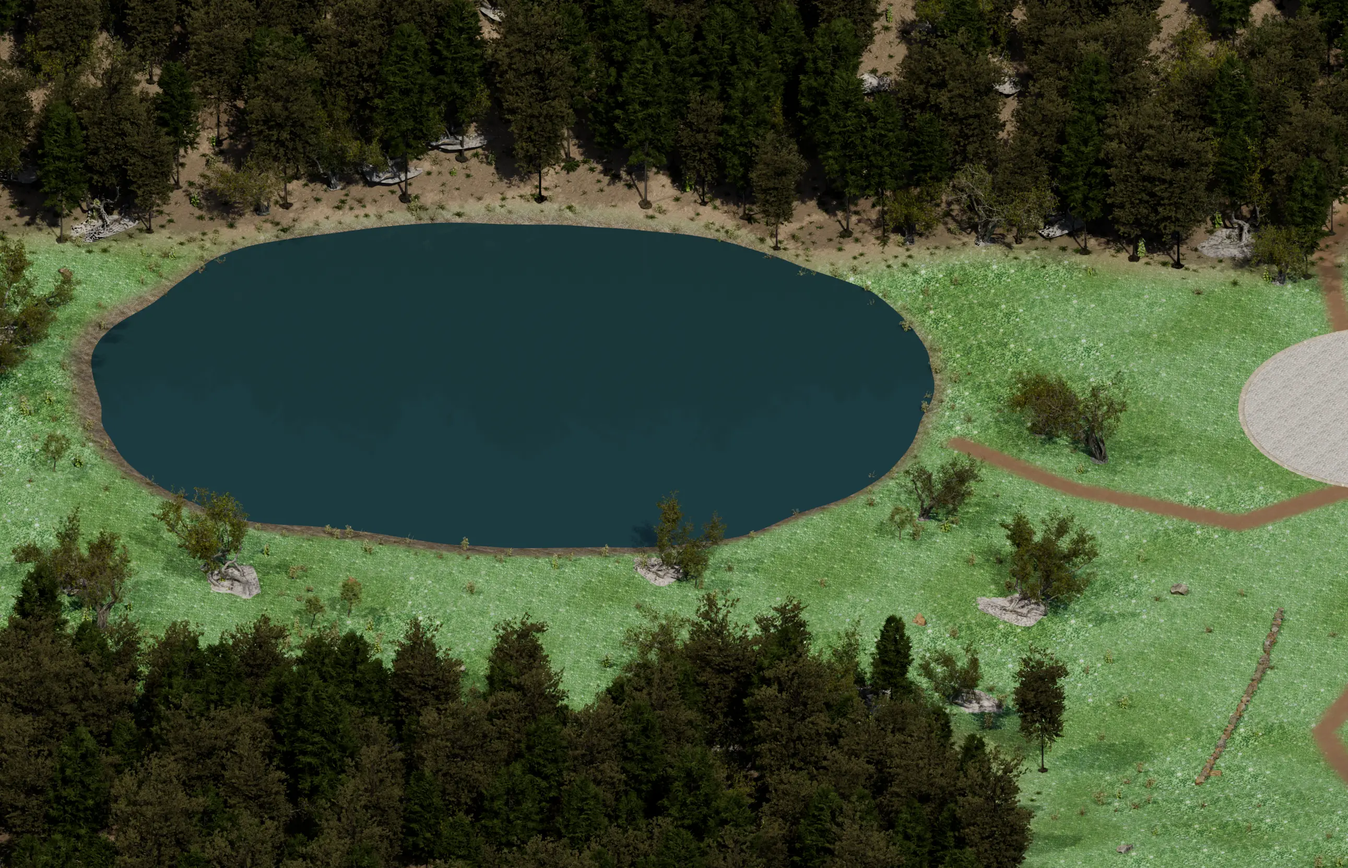
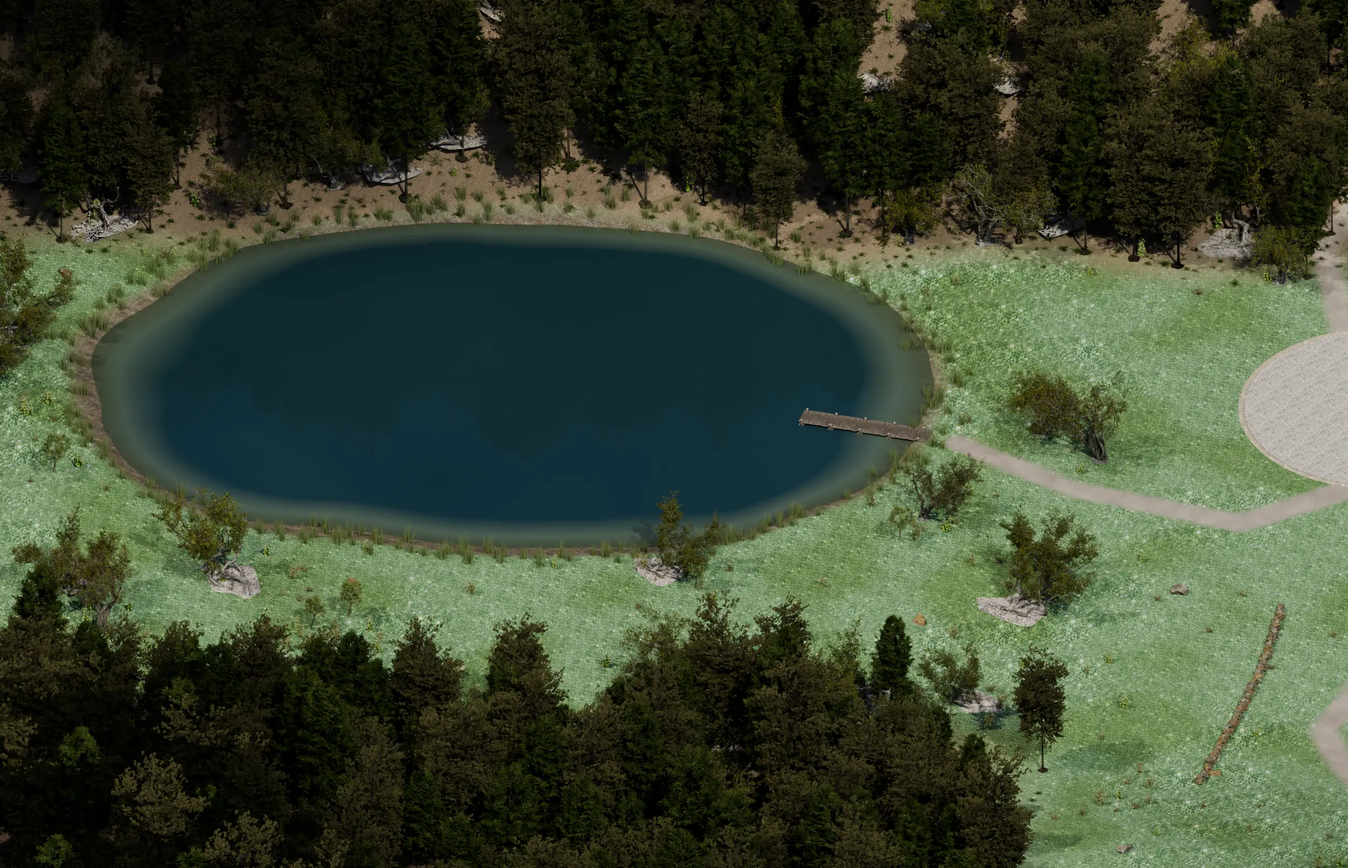
feat: polish the Guild lakeside: shoreline, pier, reeds, walls and clouds
The lake shows depth, clear over the lakebed in the shallows, with reed
clumps and a wooden pier at the end of the gate path. Paths are natural soil
and gravel, the meadow varies by colour rather than repeats, dry-stone walls
have three courses, and cloud shadows drift over the outer landscape. The
Grok keep takes dark slate, and hall windows glow at night but not by day.
Plate rendering no longer deletes the world's surface textures.

diff --git a/web/yard/renderer.js b/web/yard/renderer.js
@@ -231,7 +231,12 @@ export class YardRenderer {
     const light=theme==='light';
     // Plates carry their own daylight; dark theme dims them toward dusk.
     this.plateTint.set(light?0xffffff:0x9aa3b8);
-    this.world?.traverse(node=>{if(node.userData.plate)node.material.color.copy(this.plateTint);});
+    this.world?.traverse(node=>{
+      if(node.userData.plate)node.material.color.copy(this.plateTint);
+      // Lit windows and magic read as glow at night, not as paint by day.
+      else for(const m of (Array.isArray(node.material)?node.material:node.material?[node.material]:[]))
+        if(m.name==='window'||m.name==='magic')m.emissiveIntensity=light?.35:1.4;
+    });
     this.renderer.toneMappingExposure=light?1.65:1.12;
     this.hemi.color.set(skin==='grove'?0xccebd6:skin==='orbital'?0xa7c9ff:0xc4dced);
     this.hemi.intensity=(light?3.2:1.8)*(WORLDS[skin]?.plates?.35:1);

diff --git a/concept-art/guild-yard/env/guild_env.py b/concept-art/guild-yard/env/guild_env.py
@@ -19,7 +19,7 @@ OUT = ROOT / '.cache/yard-env'
 PAINTED = Path(__file__).resolve().parent / 'textures'
 HDRI = 'kloofendal_48d_partly_cloudy_puresky'
 TEXTURES = {
-    'forest': 'forest_ground_04', 'shore': 'brown_mud_rocks_01', 'path': 'forest_ground_06', 'courtyard': 'cobblestone_floor_08', 'kerb': 'castle_wall_slates',
+    'forest': 'forest_ground_04', 'shore': 'brown_mud_rocks_01', 'path': 'forest_ground_06', 'gravel': 'gravel_floor', 'courtyard': 'cobblestone_floor_08', 'kerb': 'castle_wall_slates',
 }
 # Model, target height in metres (None keeps Poly Haven's real size), and
 # whether the .blend holds variants to pick between rather than one model.
@@ -35,7 +35,7 @@ MODELS = {
 SURFACES = {
     'wall': ('castle_wall_varriation', 2.5, ['stone', 'stoneLight'], False),
     'plinth': ('castle_wall_slates', 2.5, ['stoneDark', 'edge'], False),
-    'roof': ('grey_roof_tiles_02', 1.5, ['amber', 'blue', 'emerald', 'violet', 'cyan'], True),
+    'roof': ('grey_roof_tiles_02', 1.5, ['amber', 'blue', 'emerald', 'violet', 'cyan', 'iron'], True),
     'wood': ('dark_wooden_planks', 2, ['wood', 'woodLight'], False),
 }
 COURTYARD_RADIUS = 13.7
@@ -216,6 +216,19 @@ def painted(nodes, links, name, scale, coord):
     pick.inputs['From Min'].default_value, pick.inputs['From Max'].default_value = .42, .58
     links.new(noise(30, 1), pick.inputs['Value'])
     color = mix(nodes, links, 'RGBA', pick.outputs['Result'], sample(scale, 0), sample(scale * 2.3, .9))
+    dry = nodes.new('ShaderNodeMapRange')
+    dry.inputs['From Min'].default_value, dry.inputs['From Max'].default_value = .5, .7
+    dry.inputs['To Max'].default_value = .45
+    links.new(noise(90, 3), dry.inputs['Value'])
+    straw = nodes.new('ShaderNodeMix')
+    straw.data_type, straw.blend_type = 'RGBA', 'MULTIPLY'
+    links.new(dry.outputs['Result'], straw.inputs['Factor'])
+    links.new(color, straw.inputs[6])
+    straw.inputs[7].default_value = (1.1, .95, .55, 1)
+    calm = nodes.new('ShaderNodeHueSaturation')
+    calm.inputs['Saturation'].default_value = .82
+    links.new(straw.outputs[2], calm.inputs['Color'])
+    color = calm.outputs['Color']
     shade = nodes.new('ShaderNodeMapRange')
     shade.inputs['To Min'].default_value, shade.inputs['To Max'].default_value = .62, .92
     links.new(noise(55, 2), shade.inputs['Value'])
@@ -263,6 +276,17 @@ def ground_material():
         attr = nodes.new('ShaderNodeAttribute')
         attr.attribute_name = name
         top = surface(nodes, links, TEXTURES[{'woods': 'forest'}.get(name, name)], scale, coord)
+        if name == 'path':
+            gravel = surface(nodes, links, TEXTURES['gravel'], 1.6, coord)
+            grit = nodes.new('ShaderNodeTexNoise')
+            grit.inputs['Scale'].default_value = .4
+            links.new(coord, grit.inputs['Vector'])
+            top = tuple(mix(nodes, links, kind, grit.outputs['Fac'], a, b)
+                        for kind, a, b in zip(('RGBA', 'FLOAT', 'VECTOR'), top, gravel))
+            dull = nodes.new('ShaderNodeHueSaturation')
+            dull.inputs['Saturation'].default_value, dull.inputs['Value'].default_value = .55, .92
+            links.new(top[0], dull.inputs['Color'])
+            top = (dull.outputs['Color'], top[1], top[2])
         layers = [tuple(mix(nodes, links, kind, attr.outputs['Fac'], low, high)
                         for kind, low, high in zip(('RGBA', 'FLOAT', 'VECTOR'), layers[0], top))]
     color, rough, normal = layers[0]
@@ -284,11 +308,33 @@ def textured(name, asset, scale):
     return m
 
 def water_material():
+    """Dark and reflective where deep; clear over the lakebed in the shallows."""
     import bpy
     m = bpy.data.materials.new('water')
     nodes, links = m.node_tree.nodes, m.node_tree.links
     bsdf = nodes['Principled BSDF']
-    bsdf.inputs['Base Color'].default_value = (.012, .028, .03, 1)
+    depth = nodes.new('ShaderNodeAttribute')
+    depth.attribute_name = 'depth'
+    deep = nodes.new('ShaderNodeMapRange')
+    deep.inputs['From Min'].default_value, deep.inputs['From Max'].default_value = 0, 1.6
+    links.new(depth.outputs['Fac'], deep.inputs['Value'])
+    tint = nodes.new('ShaderNodeMix')
+    tint.data_type = 'RGBA'
+    links.new(deep.outputs['Result'], tint.inputs['Factor'])
+    tint.inputs[6].default_value = (.07, .09, .06, 1)
+    tint.inputs[7].default_value = (.008, .022, .026, 1)
+    links.new(tint.outputs[2], bsdf.inputs['Base Color'])
+    clear = nodes.new('ShaderNodeBsdfTransparent')
+    clear.inputs['Color'].default_value = (.62, .7, .6, 1)
+    shallow = nodes.new('ShaderNodeMapRange')
+    shallow.inputs['From Min'].default_value, shallow.inputs['From Max'].default_value = 0, .7
+    shallow.inputs['To Min'].default_value, shallow.inputs['To Max'].default_value = .7, 0
+    links.new(depth.outputs['Fac'], shallow.inputs['Value'])
+    blend = nodes.new('ShaderNodeMixShader')
+    links.new(shallow.outputs['Result'], blend.inputs['Fac'])
+    links.new(bsdf.outputs['BSDF'], blend.inputs[1])
+    links.new(clear.outputs['BSDF'], blend.inputs[2])
+    links.new(blend.outputs['Shader'], nodes['Material Output'].inputs['Surface'])
     bsdf.inputs['Roughness'].default_value = .02
     bsdf.inputs['IOR'].default_value = 1.33
     ripples = nodes.new('ShaderNodeTexNoise')
@@ -324,13 +370,26 @@ def terrain():
     return obj
 
 def water():
-    import bpy
+    """The lake surface, carrying the depth beneath each point for the shader."""
+    import bpy, bmesh
     ca, cb, ra, rb = LAKE
     x, y = to_ground(ca, cb)
-    bpy.ops.mesh.primitive_plane_add(size=1, location=(x, y, WATER_LEVEL))
-    obj = bpy.context.object
-    obj.scale = (ra * 3, ra * 3, 1)
+    size = max(ra, rb) * 2.6
+    bm = bmesh.new()
+    bmesh.ops.create_grid(bm, x_segments=int(size), y_segments=int(size), size=size / 2)
+    mesh = bpy.data.meshes.new('water')
+    bm.to_mesh(mesh)
+    bm.free()
+    depths = []
+    for v in mesh.vertices:
+        v.co.x += x
+        v.co.y += y
+        v.co.z = WATER_LEVEL
+        depths.append(max(0, WATER_LEVEL - height(v.co.x, v.co.y)))
+    mesh.attributes.new('depth', 'FLOAT', 'POINT').data.foreach_set('value', depths)
+    obj = bpy.data.objects.new('water', mesh)
     obj.data.materials.append(water_material())
+    bpy.context.scene.collection.objects.link(obj)
 
 def courtyard():
     import bpy
@@ -436,21 +495,121 @@ def walls(rocks):
     sizes = {c: max(max(o.dimensions) for o in c.objects) for c in rocks}
     for line in WALLS:
         for (a0, b0), (a1, b1) in zip(line, line[1:]):
-            steps = int(math.hypot(a1 - a0, b1 - b0) / .42)
+            steps = int(math.hypot(a1 - a0, b1 - b0) / .36)
             for i in range(steps):
                 t = i / steps
                 a, b = a0 + (a1 - a0) * t, b0 + (b1 - b0) * t
                 x, y = to_ground(a + rng.uniform(-.12, .12), b + rng.uniform(-.12, .12))
                 if live_distance(x, y) < 3:
                     continue
-                for layer in range(2):
+                for layer in range(3):
                     c = rng.choice(rocks)
                     inst = bpy.data.objects.new('wall', None)
                     inst.instance_type, inst.instance_collection = 'COLLECTION', c
-                    inst.location = (x, y, height(x, y) + layer * .32 - .08)
+                    inst.location = (x, y, height(x, y) + layer * .3 - .1)
                     inst.rotation_euler = (rng.uniform(-.2, .2), rng.uniform(-.2, .2), rng.uniform(0, math.tau))
-                    inst.scale = (rng.uniform(.65, .95) / sizes[c],) * 3
+                    inst.scale = (rng.uniform(.75, 1.1) * (1 - layer * .15) / sizes[c],) * 3
                     bpy.context.scene.collection.objects.link(inst)
+
+def reeds():
+    """Reed clumps: tapered blades leaning out from a base, in three variants."""
+    import bpy
+    m = bpy.data.materials.new('reed')
+    bsdf = m.node_tree.nodes['Principled BSDF']
+    bsdf.inputs['Base Color'].default_value = (.12, .15, .05, 1)
+    bsdf.inputs['Roughness'].default_value = .55
+    bsdf.inputs['Subsurface Weight'].default_value = .15
+    variants = []
+    for k in range(3):
+        rng = random.Random(300 + k)
+        verts, faces = [], []
+        for _ in range(55):
+            r, a = rng.uniform(0, .45), rng.uniform(0, math.tau)
+            bx, by = r * math.cos(a), r * math.sin(a)
+            tall, lean, width = rng.uniform(.9, 1.9), rng.uniform(.05, .35), rng.uniform(.018, .03)
+            facing = rng.uniform(0, math.tau)
+            fx, fy = math.cos(facing) * width, math.sin(facing) * width
+            start = len(verts)
+            for j in range(4):
+                t = j / 3
+                w = 1 - t * .9
+                cx, cy = bx + math.cos(a) * lean * t * t, by + math.sin(a) * lean * t * t
+                verts += [(cx - fx * w, cy - fy * w, tall * t), (cx + fx * w, cy + fy * w, tall * t)]
+            faces += [(start + 2 * j, start + 2 * j + 1, start + 2 * j + 3, start + 2 * j + 2) for j in range(3)]
+        mesh = bpy.data.meshes.new(f'reeds_{k}')
+        mesh.from_pydata(verts, [], faces)
+        mesh.materials.append(m)
+        obj = bpy.data.objects.new(f'reeds_{k}', mesh)
+        c = bpy.data.collections.new(f'reeds_{k}')
+        c.objects.link(obj)
+        variants.append(c)
+    return variants
+
+PIER = ((-42, -6), (-56, -2))   # shore end and lake end, screen frame
+
+def pier():
+    """A wooden pier from the gate path's end out over the lake."""
+    import bpy
+    path = polyhaven.model('modular_wooden_pier')
+    with bpy.data.libraries.load(str(path)) as (src, dst):
+        dst.objects = [n for n in src.objects if n.endswith('section_02')]
+    section = dst.objects[0]
+    deck = max(c[2] for c in section.bound_box)
+    (a0, b0), (a1, b1) = PIER
+    (x0, y0), (x1, y1) = to_ground(a0, b0), to_ground(a1, b1)
+    length, step = math.hypot(x1 - x0, y1 - y0), 2.9
+    heading = math.atan2(y1 - y0, x1 - x0) - math.pi / 2
+    for i in range(int(length / step) + 1):
+        t = i * step / length
+        obj = section.copy()
+        obj.location = (x0 + (x1 - x0) * t, y0 + (y1 - y0) * t, WATER_LEVEL + .55 - deck)
+        obj.rotation_euler = (0, 0, heading)
+        bpy.context.scene.collection.objects.link(obj)
+
+def cloud_shadows():
+    """Soft cloud shadows over the outer landscape, never over the live area:
+    a hidden layer above the ground that only casts shadow."""
+    import bpy
+    from mathutils import Vector
+    sun = to_blender(SUN).normalized()
+    lift = 24
+    # A point on the layer shades the ground this far away from the sun.
+    shift = Vector((-sun.x, -sun.y)) * lift / sun.z
+    bpy.ops.mesh.primitive_plane_add(size=520, location=(-shift.x, -shift.y, lift))
+    layer = bpy.context.object
+    layer.visible_camera = layer.visible_glossy = layer.visible_diffuse = False
+    m = bpy.data.materials.new('clouds')
+    nodes, links = m.node_tree.nodes, m.node_tree.links
+    nodes.remove(nodes['Principled BSDF'])
+    coord = nodes.new('ShaderNodeTexCoord')
+    noise = nodes.new('ShaderNodeTexNoise')
+    noise.inputs['Scale'].default_value = 5
+    noise.inputs['Detail'].default_value = 4
+    links.new(coord.outputs['Generated'], noise.inputs['Vector'])
+    cover = nodes.new('ShaderNodeMapRange')
+    cover.inputs['From Min'].default_value, cover.inputs['From Max'].default_value = .46, .6
+    links.new(noise.outputs['Fac'], cover.inputs['Value'])
+    # Clear within 60 m of the live area, fading in beyond.
+    distance = nodes.new('ShaderNodeVectorMath')
+    distance.operation = 'LENGTH'
+    links.new(coord.outputs['Object'], distance.inputs[0])
+    edge = nodes.new('ShaderNodeMapRange')
+    edge.inputs['From Min'].default_value, edge.inputs['From Max'].default_value = 60, 95
+    links.new(distance.outputs['Value'], edge.inputs['Value'])
+    density = nodes.new('ShaderNodeMath')
+    density.operation = 'MULTIPLY'
+    links.new(cover.outputs['Result'], density.inputs[0])
+    links.new(edge.outputs['Result'], density.inputs[1])
+    strength = nodes.new('ShaderNodeMath')
+    strength.operation = 'MULTIPLY'
+    strength.inputs[1].default_value = .8
+    links.new(density.outputs['Value'], strength.inputs[0])
+    shade = nodes.new('ShaderNodeMixShader')
+    links.new(strength.outputs['Value'], shade.inputs['Fac'])
+    links.new(nodes.new('ShaderNodeBsdfTransparent').outputs['BSDF'], shade.inputs[1])
+    links.new(nodes.new('ShaderNodeBsdfDiffuse').outputs['BSDF'], shade.inputs[2])
+    links.new(shade.outputs['Shader'], nodes['Material Output'].inputs['Surface'])
+    layer.data.materials.append(m)
 
 def lights():
     import bpy
@@ -493,7 +652,9 @@ def build(with_halls=True):
     scatter('rocks', v['rock_moss_set_01'] + v['rock_moss_set_02'], 'clear', .002, 6, (.5, 1.2), 18)
     scatter('copses', [s['island_tree_01'], s['island_tree_02'], s['island_tree_03'], s['tree_small_02']], 'copse', .03, 4, (.7, 1.1), 20)
     scatter('thickets', [s['shrub_01'], s['shrub_02'], s['shrub_04']], 'copse', .12, 1.4, (.8, 1.5), 21)
-    scatter('reeds', [s['shrub_02'], s['shrub_04']], 'reeds', .25, 1.1, (.6, 1.1), 22)
+    scatter('reeds', reeds(), 'reeds', .5, .8, (.8, 1.2), 22)
+    pier()
+    cloud_shadows()
     walls(v['rock_moss_set_01'] + v['rock_moss_set_02'])
     if with_halls:
         halls()

diff --git a/concept-art/guild-yard/env/plates.py b/concept-art/guild-yard/env/plates.py
@@ -52,8 +52,10 @@ def render(world):
     scene = bpy.context.scene
     out = ROOT / 'web/yard/assets' / world
     out.mkdir(parents=True, exist_ok=True)
-    for old in out.glob('*.webp'):
-        old.unlink()
+    # Only this script's tiles; the world's surface textures live alongside.
+    for name, *_ in layers():
+        for old in out.glob(f'{name}-*.webp'):
+            old.unlink()
     manifest = {'camera': view()['camera'], 'layers': []}
     for name, density, right, up in layers():
         layer = {'name': name, 'density': density, 'tiles': []}

diff --git a/concept-art/guild-yard/ART.md b/concept-art/guild-yard/ART.md
@@ -73,6 +73,13 @@ the screen, so composition maps directly to what the Yard shows. Nothing
 tall stands where it would cover live halls or characters on screen
 (`tall_clear`); the play area is level so live models stand on y = 0.
 
+The lake surface carries the depth beneath it, so it is clear over the
+lakebed in the shallows and dark and reflective where deep. Reed clumps are
+generated blades; the pier is Poly Haven's modular section repeated. Cloud
+shadows come from a hidden layer that only casts shadow, cleared within
+60 m of the courtyard so the plate never darkens ground the live halls stand
+on while they stay in sunlight.
+
 Sources are Poly Haven CC0 assets (models, textures and the
 `kloofendal_48d_partly_cloudy_puresky` sky), listed in `env/guild_env.py`
 and pinned in `env/polyhaven.lock.json`. Poly Haven has no lush meadow seen
